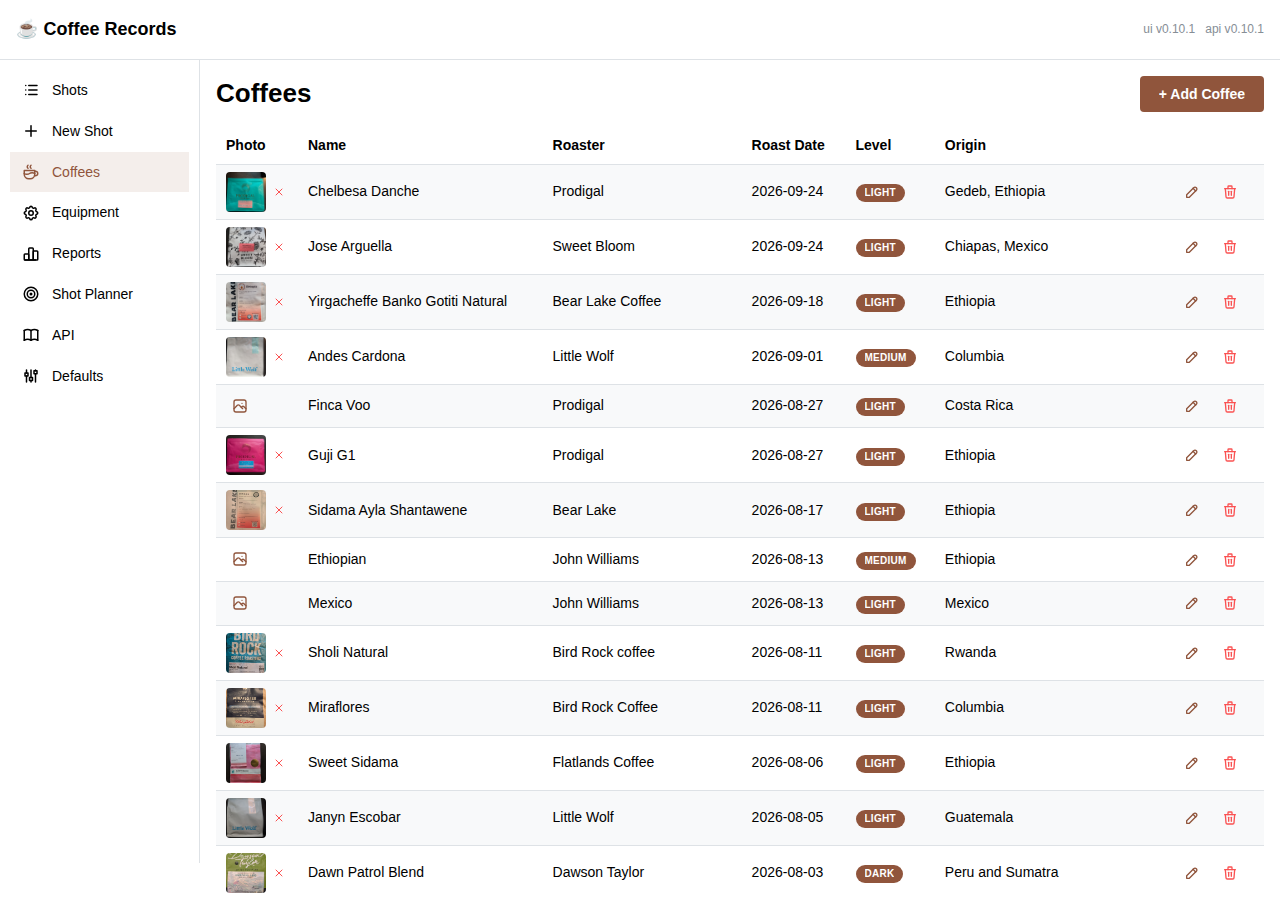
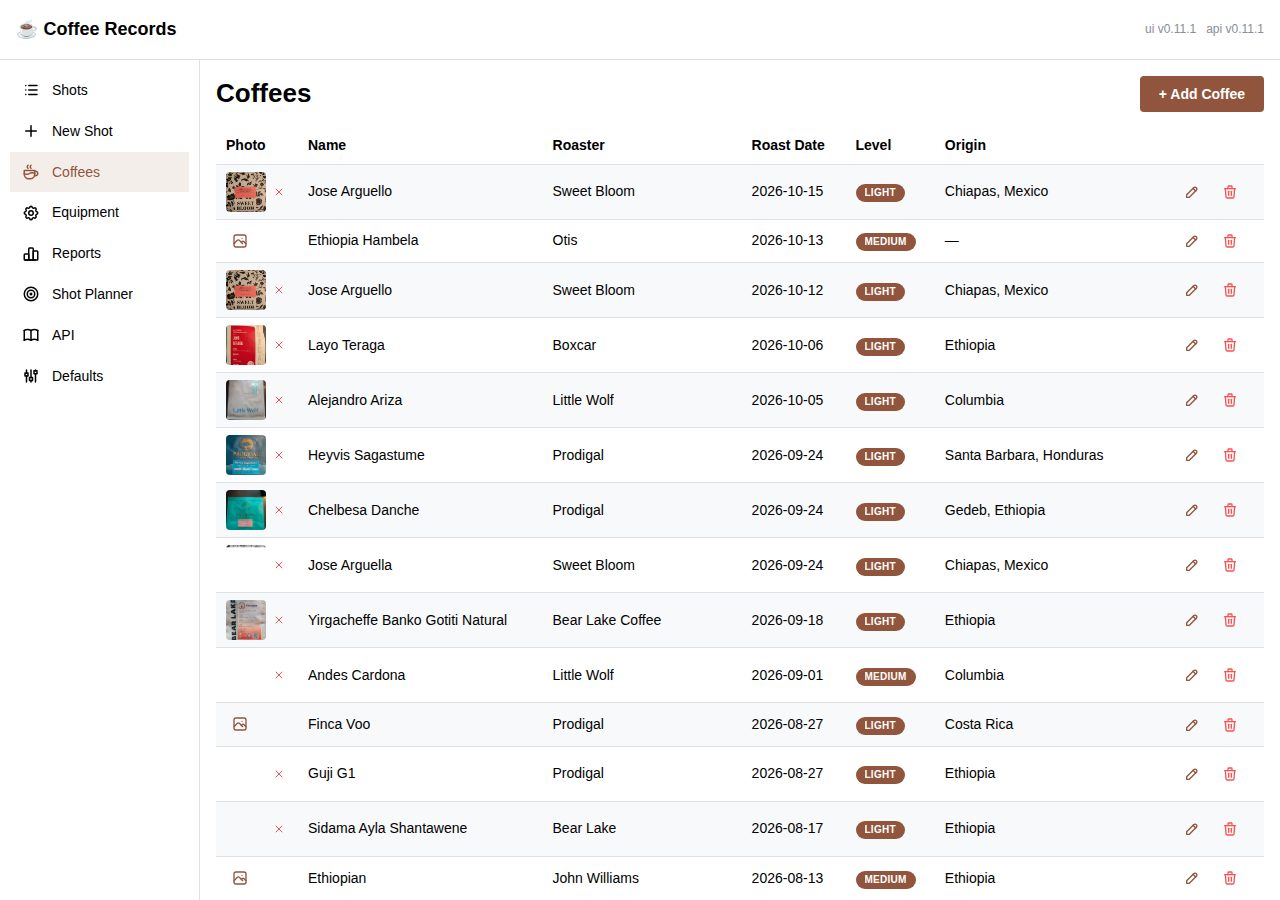
Review API docs and READMEs; refresh screenshots for v0.11.1
- API page: add GET /api/reports/shots-per-grinder and the Defaults
  endpoints; fix shot field docs (temperatures are °F, drink types
  include aeropress, extraction_delta is an adjustment estimate); note
  that CSV import fills times from the phase estimate and that training
  skips Flow Taper shots
- README: New Shot coffee defaults to the newest roast date, not the
  most recently entered; document import-csv times; add notebooks/
  investigations; new CSV import screenshot
- frontend/README: dev port note, checks, telemetry estimates panel
- Telemetry phases report: mark implemented, record the remediation
- Recapture all screenshots on v0.11.1 (telemetry estimates panel,
  planner defaulting to the latest shot)

diff --git a/frontend/src/pages/ApiDocsPage.tsx b/frontend/src/pages/ApiDocsPage.tsx
@@ -161,17 +161,17 @@ const sections: Section[] = [
           { name: "maker", type: "string", required: true, description: "Who pulled the shot" },
           { name: "coffee_id", type: "integer", required: false, description: "Coffee bag ID" },
           { name: "dose_weight", type: "float", required: false, description: "Dose in grams" },
-          { name: "extraction_time", type: "float", required: false, description: "Target extraction time (seconds)" },
-          { name: "extraction_delta", type: "float", required: false, description: "Actual deviation from target (default 0)" },
+          { name: "extraction_time", type: "float", required: false, description: "Shot time in seconds: start of the stream to pump off" },
+          { name: "extraction_delta", type: "float", required: false, description: "Estimated seconds to add (+) or subtract (−) for ideal extraction (default 0)" },
           { name: "final_weight", type: "float", required: false, description: "Yield in grams" },
           { name: "grind_setting", type: "string", required: false, description: "Grinder setting value" },
           { name: "grinder_id", type: "integer", required: false, description: "Grinder ID" },
           { name: "device_id", type: "integer", required: false, description: "Brewing device ID" },
           { name: "scale_id", type: "integer", required: false, description: "Scale ID" },
-          { name: "drink_type", type: "enum", required: false, description: "americano | latte | cappuccino | drip | other" },
-          { name: "grinder_temp_before", type: "float", required: false, description: "Grinder temp before (°C)" },
-          { name: "grinder_temp_after", type: "float", required: false, description: "Grinder temp after (°C)" },
-          { name: "pre_infusion_time", type: "string", required: false, description: "Pre-infusion duration" },
+          { name: "drink_type", type: "enum", required: false, description: "americano | latte | cappuccino | drip | aeropress" },
+          { name: "grinder_temp_before", type: "float", required: false, description: "Grinder temp before (°F)" },
+          { name: "grinder_temp_after", type: "float", required: false, description: "Grinder temp after (°F)" },
+          { name: "pre_infusion_time", type: "string", required: false, description: "Pre-infusion: free text, e.g. a routine like \"5+3\" or seconds (\"9.9\", as filled by CSV import)" },
           { name: "wedge", type: "boolean", required: false, description: "Wedge used (default false)" },
           { name: "shaker", type: "boolean", required: false, description: "Shaker used (default false)" },
           { name: "wdt", type: "boolean", required: false, description: "WDT used (default false)" },
@@ -219,7 +219,7 @@ const sections: Section[] = [
       {
         method: "POST",
         path: "/api/shots/import-csv",
-        description: "Parse a Brewmeo shot CSV (multipart/form-data, field: file) into New Shot form values, a proposed new coffee, notes, and Beanconqueror-style telemetry JSON. Writes nothing to the database.",
+        description: "Parse a Brewmeo shot CSV (multipart/form-data, field: file) into New Shot form values, a proposed new coffee, notes, and Beanconqueror-style telemetry JSON. Pre-infusion and extraction time come from the telemetry phase estimate (null when it can't be estimated, e.g. a truncated recording); the estimates are also added to the notes. Writes nothing to the database.",
         curl: `curl -X POST ${BASE}/api/shots/import-csv \\\n  -F "file=@My shot #19.csv"`,
       },
       {
@@ -369,6 +369,24 @@ const sections: Section[] = [
     ],
   },
   {
+    label: "Defaults",
+    value: "defaults",
+    endpoints: [
+      {
+        method: "GET",
+        path: "/api/defaults",
+        description: "Current New Shot form defaults. Creates the singleton row from the config.yaml seed values on first call.",
+        curl: `curl ${BASE}/api/defaults`,
+      },
+      {
+        method: "PUT",
+        path: "/api/defaults",
+        description: "Update the New Shot form defaults (same fields as the GET response: maker, dose_weight, pre_infusion_time, extraction_time, final_weight, drink_type, grinder_temp_before, wedge, shaker, wdt, flow_taper).",
+        curl: `curl -X PUT ${BASE}/api/defaults \\\n  -H "Content-Type: application/json" \\\n  -d '{"dose_weight":19,"pre_infusion_time":"5+3"}'`,
+      },
+    ],
+  },
+  {
     label: "Reports",
     value: "reports",
     endpoints: [
@@ -397,6 +415,18 @@ const sections: Section[] = [
           { name: "device_id", type: "integer", required: false, description: "Filter by brewing device" },
         ],
         curl: `curl "${BASE}/api/reports/shots-per-day?date_from=2026-01-01"`,
+      },
+      {
+        method: "GET",
+        path: "/api/reports/shots-per-grinder",
+        description: "Shot count per grinder, sorted by count descending. The grinder is the grouping key, so grinder_id is not accepted.",
+        params: [
+          { name: "date_from", type: "date (ISO)", required: false, description: "Inclusive start date" },
+          { name: "date_to", type: "date (ISO)", required: false, description: "Inclusive end date" },
+          { name: "coffee_id", type: "integer", required: false, description: "Filter by coffee" },
+          { name: "device_id", type: "integer", required: false, description: "Filter by brewing device" },
+        ],
+        curl: `curl "${BASE}/api/reports/shots-per-grinder?date_from=2026-01-01"`,
       },
       {
         method: "GET",
@@ -457,7 +487,7 @@ const sections: Section[] = [
           "Fit (or re-fit) the multivariate grind model for a grinder using alternating OLS. " +
           "The model equation is: grind = a0·(temp−65) + a2·(time−target) + a3·(dose−20) + " +
           "a4·age_days + a5·(yield−2·dose) + c(coffee). " +
-          "Training uses americano, latte, and cappuccino shots only; excludes first-day shots per coffee. " +
+          "Training uses americano, latte, and cappuccino shots only; excludes first-day shots per coffee and shots with Flow Taper checked. " +
           "Warm-starts intercepts from the most recent prior training. " +
           "Returns 201 with the training record on success.",
         params: [

diff --git a/README.md b/README.md
@@ -227,6 +227,13 @@ Run these from the project root with `poetry run python bin/<script>.py`. Only `
 
 Always run `import_ocr_data.py` with `--dry-run` first.
 
+### Investigations (`notebooks/`)
+
+Exploration code lives in `notebooks/` and is not part of the app or the CI checks.
+
+- `notebooks/telemetry_phases/`: the analysis behind the [telemetry phase estimates](#telemetry-phase-estimates). `README.md` is the report; `explore.py` re-runs it over every shot with telemetry (needs database credentials and the telemetry directory) and rewrites `results/` and `figures/`.
+- `notebooks/telemetry_phases/remediation/`: the one-time correction of historical extraction times and Flow Taper flags (applied 2026-11-01). `proposal.yaml` lists every reviewed change; `apply_remediation.py` dry-runs by default, and with `--apply` backs up the current values to a local CSV first.
+
 ---
 
 ## Running tests and checks
@@ -278,7 +285,7 @@ Filter the list by maker using the dropdown at the top. **Import CSV** starts a 
 
 Clicking a telemetry preview opens the full interactive chart of flow, pressure and weight:
 
-![Shot telemetry modal showing flow, pressure and weight over time](docs/screenshots/telemetry.png)
+![Shot telemetry modal: flow, pressure and weight over time, with the fitted pre-infusion, shot time and pressure profile below the chart](docs/screenshots/telemetry.png)
 
 Below the chart, **Estimates from telemetry** shows the fitted pre-infusion and shot time (with the logged extraction time for comparison), whether the pressure followed a natural decline or a modulated profile, and the fitted phase boundaries (see [Telemetry phase estimates](#telemetry-phase-estimates)).
 
@@ -303,7 +310,7 @@ The thresholds live in the `telemetry_phases` block of `config.yaml`. The invest
 
 Form to log a shot. All fields except date and maker are optional. The form opens pre-filled with defaults, so you only enter what changed.
 
-![New Shot form after 9:30 am: Maker is Sara, so the drink defaults to cappuccino, and the grind setting is filled from the coffee's last shot](docs/screenshots/new-shot.png)
+![New Shot form after 9:30 am: Maker is Sara, so the drink defaults to cappuccino; the grind setting is empty because the newest bag has no shots yet](docs/screenshots/new-shot.png)
 
 The dose, weights, times, temperature, drink and prep-toggle defaults below are first-run seed values from `config.yaml`'s `shot_defaults_seed`. After that, the form uses whatever is saved on the [Defaults](#defaults) page.
 
@@ -311,7 +318,7 @@ The dose, weights, times, temperature, drink and prep-toggle defaults below are 
 |---|---|---|
 | Date | Today | |
 | Maker | Scott before 9:30 am, Sara from 9:30 am | Dropdown of Scott, Sara and anyone who has logged a shot; type a new name and pick **Add “…”** to add someone |
-| Coffee | Most recently entered | Searchable select from the coffees list |
+| Coffee | Newest roast date (the first coffee in the list) | Searchable select from the coffees list |
 | Drink type | cappuccino when Maker is Sara; otherwise the Defaults page value (americano) | Follows the Maker until you pick a drink; a drink you chose is never overwritten. The rule lives in `frontend/src/utils/drinks.ts` |
 | Grind setting | Last grind recorded for the chosen coffee on the chosen grinder; empty for a coffee's first shot | Refills when the coffee or grinder changes until you type a value; shows the date it was last used |
 | Grinder | Option-O (matched by name) | Searchable select |
@@ -349,6 +356,8 @@ Equipment defaults (grinder, machine, scale) are resolved by substring match on 
 **Pre-infusion time** and **Extraction time** come from the [telemetry phase estimates](#telemetry-phase-estimates), not the CSV: Brewmeo leaves its pre-infusion empty and reports the whole recording length as extraction time. When the estimate is n/a (for example, a recording that started mid-shot), both fields are left empty and a warning asks you to enter them.
 
 Remaining metadata (basket, tamper, ratings, temperatures, average flow…) is written to **Notes**, followed by a **Telemetry estimates (curve fit)** block with the pre-infusion, shot time, pressure profile and recording length. Record IDs and export boilerplate are left out of the notes.
+
+![New Shot form after importing a Brewmeo CSV: pre-infusion and extraction time filled from the curve fit, the estimates at the end of Notes, a proposed new coffee, and warnings about a scale disturbance](docs/screenshots/csv-import.png)
 
 The `moment` rows are converted to Beanconqueror-style telemetry JSON and attached as the Telemetry file:
 - Weight goes to `weight`, pressure to `pressureFlow`, temperature to `temperatureFlow`.
@@ -403,7 +412,7 @@ Features that do not vary within any single coffee group (e.g. temperature alway
 
 The **Retrain Model** button triggers a fresh training run and immediately refreshes all plots.
 
-![Shot Planner with a recommended grind, the fitted model equation, and the three plots](docs/screenshots/planner.png)
+![Shot Planner opened on the latest shot's grinder and coffee. That bag is newer than the last training run, so it asks for a retrain instead of recommending a grind](docs/screenshots/planner.png)
 
 Training uses only americano, latte, and cappuccino shots. Drip and aeropress shots are excluded, as are the first day of shots for each coffee bag (dialing-in shots). Shots pulled with shot profiling (**Flow Taper** checked) are also excluded, since a profiled flow curve changes the grind/extraction relationship; only shots explicitly marked not profiled are used (the rule lives in `coffee_records/services/grind_model/eligibility.py`). Each coffee's dialing-in day is still taken from all of its shots. Every training run logs its candidate, eligible and excluded counts.
 
@@ -500,7 +509,7 @@ Requests without a valid key return `401 Unauthorized`. Authentication is disabl
 | `POST` | `/api/shots` | Create a shot |
 | `GET` | `/api/shots/makers` | Distinct maker names from all shots, sorted |
 | `GET` | `/api/shots/last-grind?coffee_id=&grinder_id=` | Most recent grind setting recorded for a coffee (optionally on one grinder); all-null fields for a coffee's first shot. Used to default the New Shot grind setting. |
-| `POST` | `/api/shots/import-csv` | Parse a Brewmeo shot CSV into New Shot form values, a proposed coffee, notes, and telemetry JSON (`multipart/form-data`, field `file`). Writes nothing. |
+| `POST` | `/api/shots/import-csv` | Parse a Brewmeo shot CSV into New Shot form values, a proposed coffee, notes, and telemetry JSON (`multipart/form-data`, field `file`). `pre_infusion_time` and `extraction_time` come from the [telemetry phase estimate](#telemetry-phase-estimates) and are null when it is n/a. Writes nothing. |
 | `GET` | `/api/shots/<id>` | Get one shot |
 | `PUT` | `/api/shots/<id>` | Update a shot |
 | `DELETE` | `/api/shots/<id>` | Delete a shot and its video, telemetry JSON, and telemetry thumbnail |

diff --git a/notebooks/telemetry_phases/README.md b/notebooks/telemetry_phases/README.md
@@ -1,7 +1,7 @@
 # Telemetry phase estimation: pre-infusion and shot time
 
-**Status:** exploration only. Nothing in the application has changed.
-Decisions from the first review (2026-11-01) are recorded in §7.
+**Status:** implemented in v0.11.0 (2026-11-01): see §8. Decisions from
+the first review are recorded in §7; the one-time data remediation is in §9.
 **Data:** all 185 shots with telemetry as of 2026-11-01.
 
 ## Goal
@@ -250,24 +250,38 @@ the timer was used on those early profiled shots (§5).
   Flow Taper shots: shots 653, 676 and 680 are probably excluded wrongly,
   and 290 and 295 are probably included wrongly.
 
-## 8. Implementation sketch (pending approval)
+## 8. Implementation (v0.11.0)
 
-- `coffee_records/services/telemetry_phases.py`: port `phase_fit.py` with
-  thresholds in `config.yaml` (`telemetry_phases:` block). The Pydantic
-  result model would hold `pre_infusion_s`, `shot_time_s`, the `t_*`
-  boundaries, `pump_on_imputed`, `profiled_detected`, `end_ratio`,
-  `plateau_rmse` and `flags`. Truncated or pressure-less recordings return
-  n/a (None) times with a reason flag.
-- Compute the phases on telemetry upload. Either store them in new nullable
-  `shots` columns, or compute them on read from the stored JSON; the fit
-  takes about 30 ms per shot.
-- Add a `bin/` backfill script for existing shots, in the style of
-  `backfill_telemetry_thumbnails.py`.
-- Show the phase markers in `TelemetryModal`. Add the fitted pre-infusion
-  (marked when imputed) and shot time to the shot card and reports.
-- Tests: use synthetic piecewise curves with known breakpoints (normal,
-  profiled, auto-start and truncated shapes), plus the existing
-  Beanconqueror fixture.
+- `coffee_records/services/telemetry_phases.py` ports `phase_fit.py`. Its
+  thresholds are the `telemetry_phases` block of `config.yaml`, and the
+  result model is `TelemetryPhases` (`coffee_records/schemas/telemetry.py`).
+  Truncated or pressure-less recordings return null times, with the reason
+  in `issues`.
+- **Brewmeo CSV import** fills Pre-infusion and Extraction time from the
+  estimate and appends a "Telemetry estimates (curve fit)" block to the
+  notes. When the estimate is n/a, both fields are left empty and a warning
+  is shown.
+- **`GET /api/shots/<id>/telemetry/phases`** computes the estimate from the
+  stored file on request (about 30 ms); nothing new is stored on the shot.
+  The telemetry modal shows it under the chart.
+- Tests: `test/test_telemetry_phases.py` uses synthetic shots with known
+  boundaries (natural, auto-start, truncated, profiled, no pressure).
+- Open questions A and B (§7) are still open: the profile detector is shown
+  in the modal but doesn't set or check the Flow Taper flag.
+
+## 9. One-time remediation (applied 2026-11-01)
+
+`remediation/proposal.yaml` lists every reviewed change with its reason;
+`remediation/apply_remediation.py` applied the approved ones. Each changed
+shot got an audit line in its notes, and the previous values were backed up
+to a local CSV (not committed).
+
+- **Extraction time corrected on 13 shots:** 289, 330, 363, 405, 431, 465,
+  466, 640, 646, 681, 697, 709, 713 (a typo, uncorrected Brewmeo recording
+  lengths, and timers started in pre-infusion or at the ramp).
+- **Flow Taper cleared on 3 shots:** 653, 676, 680 (natural declines).
+- **Declined in review:** 458, 569, 656, 661 (timer started after flow was
+  established), plus the low-confidence 606 and Flow Taper on 290, 295, 681.
 
 ## Reproducing
 
@@ -277,6 +291,10 @@ Load database credentials with direnv, then run from the repo root:
 poetry run python notebooks/telemetry_phases/explore.py \
     --telemetry-dir /var/www/html/resources/coffee/telemetry
 ```
+
+The committed `results/` and `figures/` were computed before the §9
+remediation, so they compare against the original logged times; re-running
+uses the corrected values and shifts the agreement figures slightly.
 
 The script writes `results/phases.csv` (one row per shot, with all
 boundaries, profile features and flags), `results/summary.json` and

diff --git a/frontend/README.md b/frontend/README.md
@@ -9,7 +9,15 @@ npm install
 npm run dev       # Vite dev server on :5173, proxies /api to :5000
 ```
 
-Flask must be running locally on port 5000 for API calls to work (see root README for backend setup).
+Flask must be running locally on port 5000 for API calls to work (see root README for backend setup). On the Docker host, port 5000 is the local registry: run Flask on another port (e.g. 5099) and point the `/api` and `/health` proxy targets in `vite.config.ts` at it, without committing that change.
+
+## Checks
+
+```bash
+npx tsc -b --noEmit   # type-check
+npx eslint .          # lint
+npm test              # Vitest unit tests
+```
 
 ## Build
 
@@ -24,18 +32,12 @@ The multi-stage `Dockerfile` at the project root runs this automatically. You do
 The Shots page keeps media inside the existing card header so coffee and telemetry graphics do not make rows taller:
 
 - A 28×28 coffee-label thumbnail is shown when the shot's coffee has an uploaded photo. Clicking it opens the full image in a responsive modal.
-- Telemetry-enabled shots show a compact generated chart preview. Clicking it opens the existing interactive telemetry chart.
+- Telemetry-enabled shots show a compact generated chart preview. Clicking it opens the interactive telemetry chart, with the fitted pre-infusion, shot time and pressure profile below it (fetched from `GET /api/shots/:id/telemetry/phases`).
 - If a telemetry preview is missing or fails to load, the chart action icon remains available as a fallback.
 
 The shot API supplies `coffee_image_filename` and `telemetry_thumbnail_filename`. Resource URLs are built centrally in `src/api/resources.ts`; JSON and PNG telemetry resources are served from the `telemetry/` subdirectory.
 
 Telemetry thumbnail images are generated by the Flask backend during upload, not by the browser. See the root README for validation, storage, backfill, and deployment instructions.
-
-## Type checking
-
-```bash
-npx tsc --noEmit
-```
 
 ## Key libraries
 
